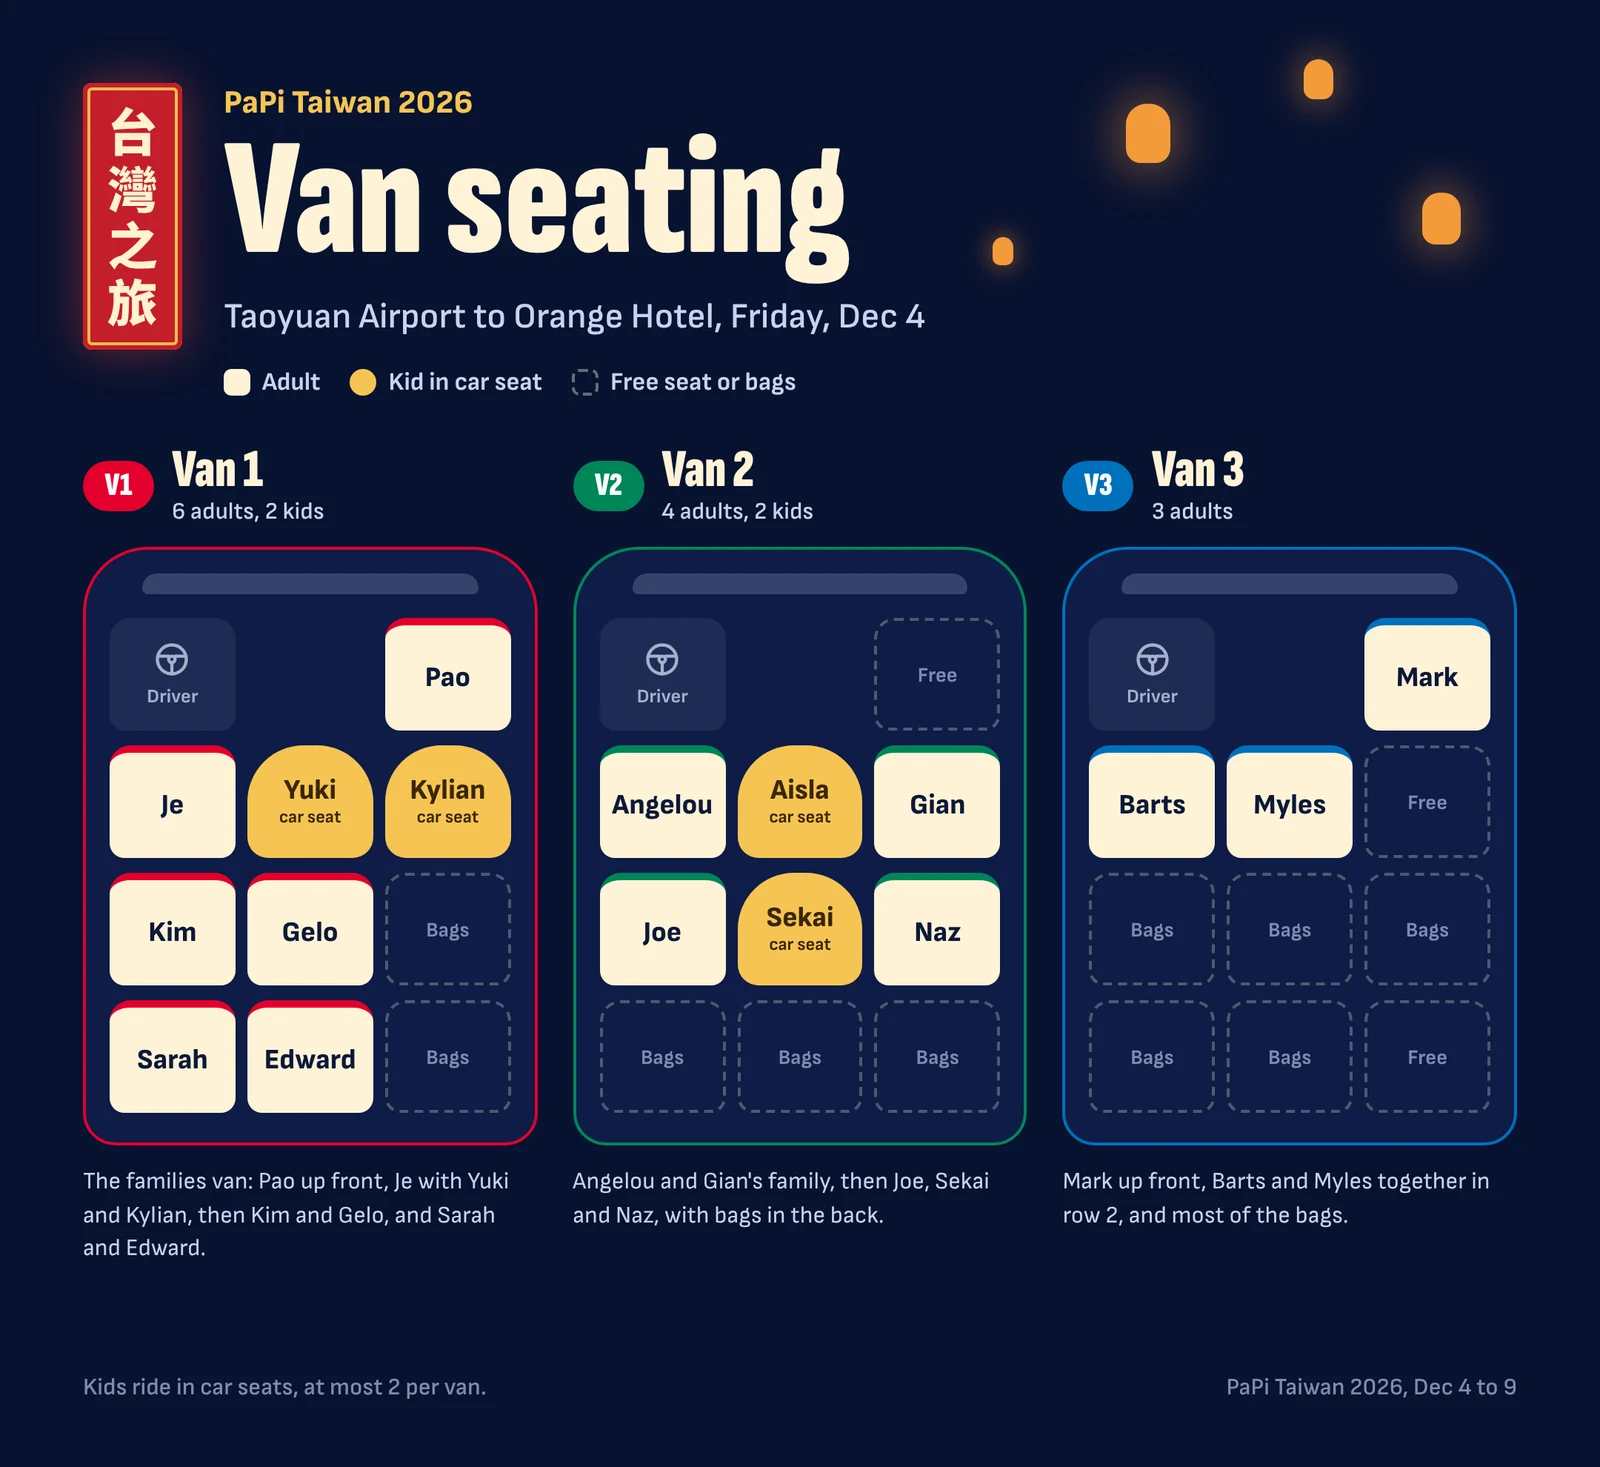
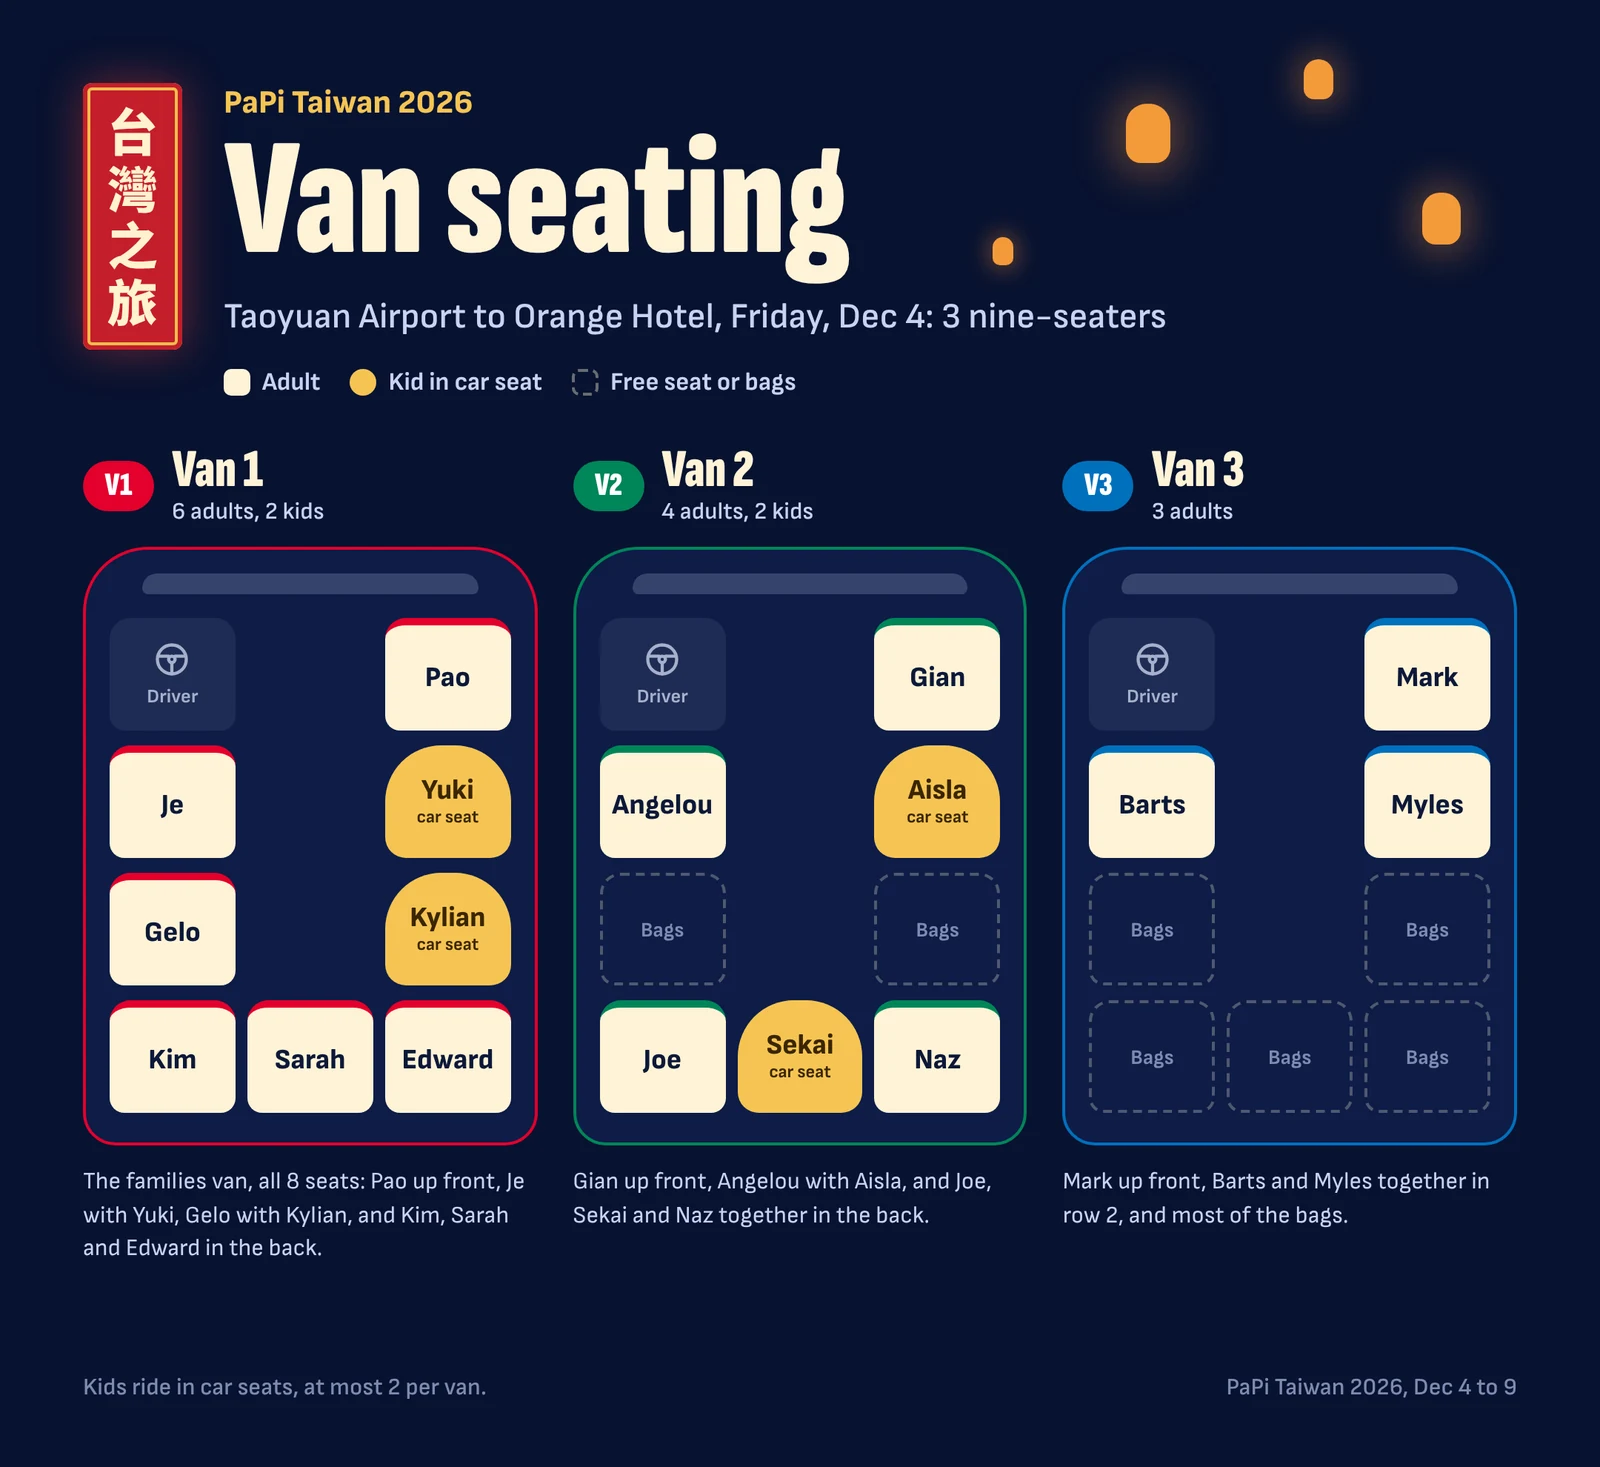
Airport seating for 9-seaters; entrance fees from the group's price list
- Airport chart: 1 seat up front, then rows of 2, 2 and 3. Van 1 Pao; Je and
  Yuki; Gelo and Kylian; Kim, Sarah, Edward. Van 2 Gian; Angelou and Aisla;
  bags; Joe, Sekai, Naz. Van 3 Mark; Barts and Myles; bags.
- Per adult: Taipei Zoo NT$100, zoo train NT$5 (new), Maokong Gondola NT$300
  (optional), Formosan Village NT$880, Shifen sky lantern NT$300; kids free
- Phones drop old edits to entrance rows once

Claude-Session: https://claude.ai/code/session_01KB1jmhfCUsJpm49JGQvRH2

diff --git a/assets/data.js b/assets/data.js
@@ -8,7 +8,7 @@ window.TRIP = {
   dates: ["2026-12-04", "2026-12-05", "2026-12-06", "2026-12-07", "2026-12-08", "2026-12-09"],
   version: 1,
   settingsRev: 2,      // bump when the default group changes, so phones pick up the new numbers
-  pricesRev: 3,        // bump when van or kid prices change, so phones drop their old edits to those rows
+  pricesRev: 4,        // bump when van, kid or ticket prices change, so phones drop their old edits to those rows
 
   // Fallback exchange rate if the live rate can't load (mid-market, Nov 4, 2026)
   rate: { value: 1.936, asOf: "Nov 4, 2026" },
@@ -17,7 +17,7 @@ window.TRIP = {
   seating: {
     src: "assets/van-seating.webp", w: 1600, h: 1467,
     caption: "Who rides where from the airport. Tap to see it bigger.",
-    alt: "Van seating chart, airport to hotel, with one seat up front. Van 1: Pao in front; Je, Yuki and Kylian in row 2; Kim and Gelo in row 3; Sarah and Edward in the back. Van 2: Angelou, Aisla and Gian in row 2; Joe, Sekai and Naz in row 3; bags in the back. Van 3: Mark in front; Barts and Myles together in row 2; bags in rows 3 and 4."
+    alt: "Van seating chart, airport to hotel, in 3 nine-seaters: 1 seat up front, then rows of 2, 2 and 3. Van 1: Pao in front; Je and Yuki; Gelo and Kylian; Kim, Sarah and Edward in the back. Van 2: Gian in front; Angelou and Aisla; bags in row 3; Joe, Sekai and Naz in the back. Van 3: Mark in front; Barts and Myles together in row 2; bags behind."
   },
 
   // Van seating chart for the tour days (Dec 5 to 7): 2 vans, 1 seat up front, no luggage
@@ -251,16 +251,16 @@ window.TRIP = {
         [1, "eSIM or SIM card", "Other", "adult", 300, "", "Taiwan eSIM 6 days price"],
         [1, "EasyCard (deposit + load)", "Other", "adult", 200, "Kids under 6 ride the MRT free.", "EasyCard Taiwan price"],
         [2, "Van: Taipei Zoo and Maokong Gondola (booked)", "Van", "van", 6500, "Booked: 2 vans at NT$6,500 each (NT$13,000). Ends around 3 PM.", "", "booked", 2, "Tour"],
-        [2, "Taipei Zoo (adults)", "Entrance", "adult", 60, "Kids under 6 free.", "Taipei Zoo ticket price"],
-        [2, "Maokong Gondola round trip (adults)", "Entrance", "adult", 240, "Kids under 6 free.", "Maokong Gondola fare"],
+        [2, "Taipei Zoo (adults)", "Entrance", "adult", 100, "Kids get in free.", "Taipei Zoo ticket price"],
+        [2, "Maokong Gondola (optional, adults)", "Entrance", "adult", 300, "Optional. Kids ride free. Type 0 if you skip it.", "Maokong Gondola fare"],
         [2, "Meals", "Food", "eater", "FOOD", ""],
         [2, "Taxi to and from dinner", "Transport", "group", 300, ""],
         [3, "Van: Formosan amusement park, culture village and Sun Moon Lake (booked)", "Van", "van", 10000, "Booked: 2 vans at NT$10,000 each (NT$20,000). It's about a 15-hour day, so confirm the price covers it.", "", "booked", 2, "Tour"],
-        [3, "Formosan Aboriginal Culture Village (adults)", "Entrance", "adult", 980, "Includes the Sun Moon Lake Ropeway. Often cheaper on Klook or KKday.", "Formosan Aboriginal Culture Village ticket price"],
+        [3, "Formosan Aboriginal Culture Village (adults)", "Entrance", "adult", 880, "Includes the Sun Moon Lake Ropeway. Kids get in free.", "Formosan Aboriginal Culture Village ticket price"],
         [3, "Formosan Village tickets for kids (free)", "Entrance", "child3", 0, "Kids get in free."],
         [3, "Meals", "Food", "eater", "FOOD", ""],
         [4, "Van: cats, lanterns, waterfalls and Jiufen (booked)", "Van", "van", 7000, "Booked: 2 vans at NT$7,000 each (NT$14,000), with the Golden Waterfall on the way.", "", "booked", 2, "Tour"],
-        [4, "Sky lantern (4 colors) at Shifen", "Entrance", "lantern", 300, "", "Shifen sky lantern price"],
+        [4, "Sky lantern at Shifen (per adult)", "Entrance", "adult", 300, "NT$300 per person.", "Shifen sky lantern price"],
         [4, "Meals", "Food", "eater", "FOOD", ""],
         [4, "MRT to Ichiran and back", "Transport", "adult", 60, "Kids under 6 ride free."],
         [5, "MRT for the day", "Transport", "adult", 60, "No van today. Kids under 6 ride free."],
@@ -274,7 +274,8 @@ window.TRIP = {
         [6, "Diapers, milk and kid snacks (whole trip)", "Kids", "child", 1800, "About NT$300 per child per day. Bring from home to save."],
         [6, "Shopping and pasalubong", "Shopping", "adult", "SHOP", "Set on the Budget tab."],
         [6, "Hotel (if not prepaid)", "Hotel", "group", "HOTEL", "Set on the Budget tab."],
-        [6, "Driver tips (optional, about NT$500 per van per day)", "Van", "group", 6000, "12 van-days: 3 vans on Dec 4 and 9, 2 vans on Dec 5 to 7. Not required in Taiwan, but a nice gesture."]
+        [6, "Driver tips (optional, about NT$500 per van per day)", "Van", "group", 6000, "12 van-days: 3 vans on Dec 4 and 9, 2 vans on Dec 5 to 7. Not required in Taiwan, but a nice gesture."],
+        [2, "Taipei Zoo train (adults)", "Entrance", "adult", 5, "Kids ride free."]
       ]
     },
 
@@ -385,16 +386,16 @@ window.TRIP = {
         [1, "eSIM or SIM card", "Other", "adult", 300, "", "Taiwan eSIM 6 days price"],
         [1, "EasyCard (deposit + load)", "Other", "adult", 200, "Used on the MRT and in convenience stores.", "EasyCard Taiwan price"],
         [2, "Van: Taipei Zoo, Maokong Gondola and Shilin (booked)", "Van", "van", 6500, "Booked: 2 vans at NT$6,500 each (NT$13,000). This plan runs about 9 hours, so check the hours included.", "", "booked", 2, "Tour"],
-        [2, "Taipei Zoo (adults)", "Entrance", "adult", 60, "", "Taipei Zoo ticket price"],
-        [2, "Maokong Gondola, one way up (adults)", "Entrance", "adult", 120, "The van picks you up at the top.", "Maokong Gondola fare"],
+        [2, "Taipei Zoo (adults)", "Entrance", "adult", 100, "Kids get in free.", "Taipei Zoo ticket price"],
+        [2, "Maokong Gondola (optional, adults)", "Entrance", "adult", 300, "Optional. The van picks you up at the top. Type 0 if you skip it.", "Maokong Gondola fare"],
         [2, "Meals and street food", "Food", "eater", "FOOD", ""],
         [2, "MRT or taxi back from Shilin", "Other", "adult", 50, ""],
         [3, "Van: Formosan amusement park, culture village and Sun Moon Lake (booked)", "Van", "van", 10000, "Booked: 2 vans at NT$10,000 each (NT$20,000). It's about a 15-hour day, so confirm the price covers it.", "", "booked", 2, "Tour"],
-        [3, "Formosan Aboriginal Culture Village (adults)", "Entrance", "adult", 980, "Includes the Sun Moon Lake Ropeway. Often cheaper on Klook or KKday.", "Formosan Aboriginal Culture Village ticket price"],
+        [3, "Formosan Aboriginal Culture Village (adults)", "Entrance", "adult", 880, "Includes the Sun Moon Lake Ropeway. Kids get in free.", "Formosan Aboriginal Culture Village ticket price"],
         [3, "Formosan Village tickets for kids (free)", "Entrance", "child3", 0, "Kids get in free."],
         [3, "Meals and street food", "Food", "eater", "FOOD", ""],
         [4, "Van: cats, lanterns, waterfalls and Jiufen (booked)", "Van", "van", 7000, "Booked: 2 vans at NT$7,000 each (NT$14,000), with the Golden Waterfall on the way.", "", "booked", 2, "Tour"],
-        [4, "Sky lantern (4 colors) at Shifen", "Entrance", "lantern", 300, "", "Shifen sky lantern price"],
+        [4, "Sky lantern at Shifen (per adult)", "Entrance", "adult", 300, "NT$300 per person.", "Shifen sky lantern price"],
         [4, "Meals and street food", "Food", "eater", "FOOD", ""],
         [5, "MRT and taxis for the free day", "Transport", "adult", 200, "No van on the free day."],
         [5, "Meals and street food", "Food", "eater", "FOOD", ""],
@@ -403,7 +404,8 @@ window.TRIP = {
         [6, "Shopping and pasalubong", "Shopping", "adult", "SHOP", "Set on the Budget tab."],
         [6, "Hotel (if not prepaid)", "Hotel", "group", "HOTEL", "Set on the Budget tab."],
         [6, "Driver tips (optional, about NT$500 per van per day)", "Van", "group", 6000, "12 van-days: 3 vans on Dec 4 and 9, 2 vans on Dec 5 to 7. Not required in Taiwan, but a nice gesture."],
-        [4, "MRT or taxi to Ximending and back", "Transport", "adult", 50, ""]
+        [4, "MRT or taxi to Ximending and back", "Transport", "adult", 50, ""],
+        [2, "Taipei Zoo train (adults)", "Entrance", "adult", 5, "Kids ride free."]
       ]
     }
   },

diff --git a/assets/app.js b/assets/app.js
@@ -61,7 +61,7 @@
   if (store.get('pricesRev', 1) !== PRICES_REV) {
     Object.keys(T.plans).forEach((k) => {
       const ed = store.get('prices:' + k, {});
-      T.plans[k].budget.forEach((b, i) => { if (b[2] === 'Van' || /^child/.test(b[3])) delete ed[i]; });
+      T.plans[k].budget.forEach((b, i) => { if (b[2] === 'Van' || b[2] === 'Entrance' || /^child/.test(b[3])) delete ed[i]; });
       store.set('prices:' + k, ed);
     });
     store.set('pricesRev', PRICES_REV);

diff --git a/sw.js b/sw.js
@@ -1,7 +1,7 @@
 /* PaPi Taiwan 2026 — offline support.
    The site keeps working with weak signal: pages come from the network first, then from this cache.
    Bump VERSION whenever site files change. */
-const VERSION = 'papi-2026-v16';
+const VERSION = 'papi-2026-v17';
 const PHOTOS = 'papi-photos-v1';
 const CORE = [
   './',
